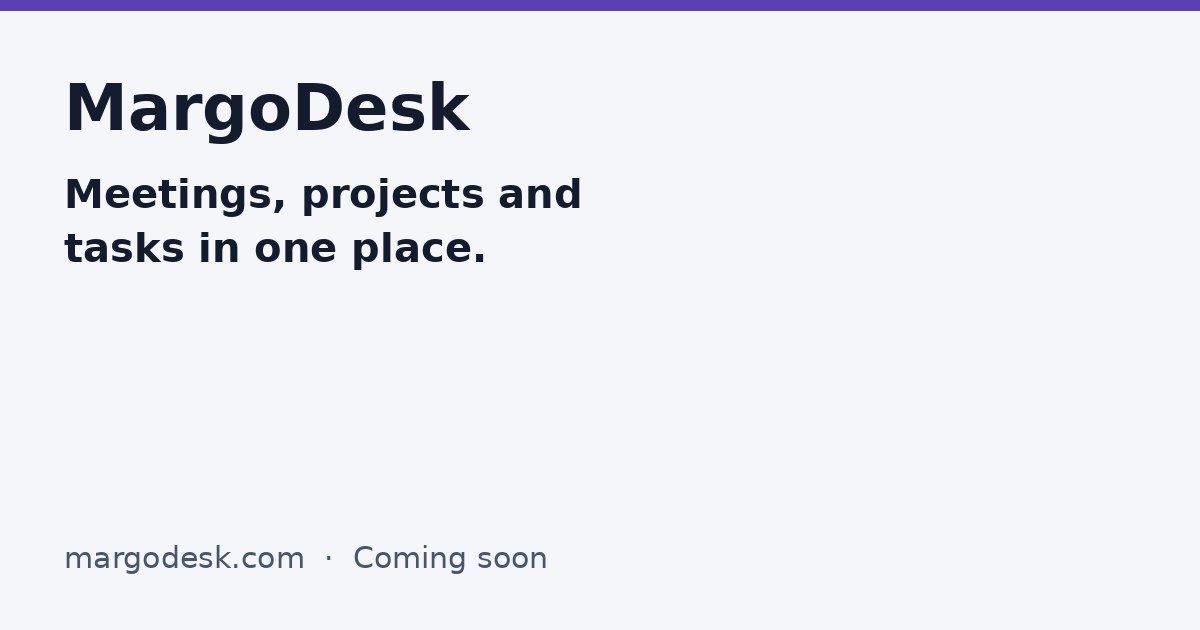
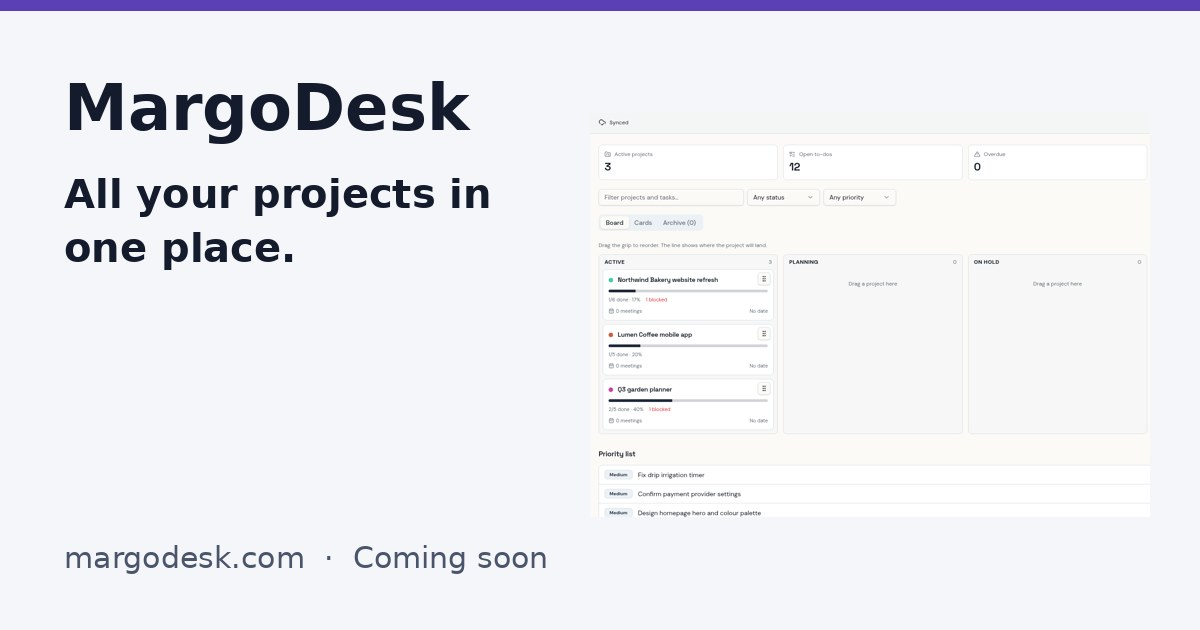
Add a projects board screenshot from the demo account

diff --git a/public/index.html b/public/index.html
@@ -60,8 +60,8 @@ footer a{color:var(--muted);padding-block:10px}
 <section class="hero">
 <div class="hero-copy">
 <p class="eyebrow">Coming soon</p>
-<h1>Meetings, projects and tasks in one place.</h1>
-<p class="lede">Your calendar, projects and priorities side by side, so the working day is easy to plan.</p>
+<h1>All your projects in one place.</h1>
+<p class="lede">See your calendar, projects and priorities side by side.</p>
 <form id="join" class="join" method="post" action="/api/waitlist">
 <label for="email">Email for launch news</label>
 <div class="row"><input id="email" name="email" type="email" required autocomplete="email" placeholder="you@example.com" maxlength="254"><button type="submit">Join the waitlist</button></div>
@@ -70,9 +70,9 @@ footer a{color:var(--muted);padding-block:10px}
 <p class="status" role="status" aria-live="polite"></p>
 </form>
 </div>
-<div class="hero-shot list"><ul><li><strong>Calendar views</strong><span>Month, week, day and agenda.</span></li><li><strong>Projects that move</strong><span>Kanban boards and prioritized task lists for each project.</span></li><li><strong>Email into work</strong><span>Paste an email and get its meetings and tasks back.</span></li></ul></div>
+<figure class="hero-shot"><picture><source srcset="/img/app.avif" type="image/avif"><img src="/img/app.webp" width="1200" height="867" alt="The MargoDesk projects board showing three fictional projects with progress bars and a priority task list" fetchpriority="high"></picture><figcaption>Real app screen, fictional example data.</figcaption></figure>
 </section>
-
+<section class="points" aria-labelledby="what"><h2 id="what">What it does</h2><dl><div><dt>Calendar views</dt><dd>Month, week, day and agenda.</dd></div><div><dt>Projects that move</dt><dd>Kanban boards and prioritized task lists for each project.</dd></div><div><dt>Email into work</dt><dd>Paste an email and get its meetings and tasks back.</dd></div></dl></section>
 </main>
 <footer><a href="https://margoengine.com/">Also from the Margo family: Margo Engine</a><a href="https://scottcampbell.io">Made by Scott Campbell</a></footer>
 <script>
